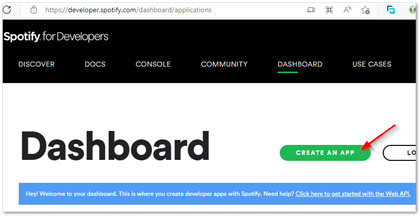
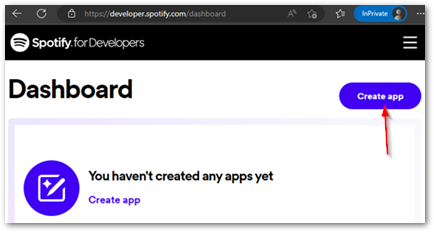
Update README.md and images

diff --git a/README.md b/README.md
@@ -7,12 +7,14 @@ This full backup can be used to be restored over your account or another one.
 
 You first need to create a Spotify Application.
 
-**Step1**: Go to the [Spotify for Developers](https://developer.spotify.com/dashboard/applications) Dashboard, log in and create an app  
+**Step1**: Go to the [Spotify for Developers](https://developer.spotify.com/dashboard) Dashboard and create an app:  
+ - App name : `spotifybackup`
+ - App description : `spotifybackup`
+ - Redirect URI : `http://localhost:8080/spotishell`
+
 ![step1.1.png](https://github.com/Domochip/spotifybackup/raw/master/img/step1.1.png) ![step1.2.png](https://github.com/Domochip/spotifybackup/raw/master/img/step1.2.png)  
-**Step2**: Edit settings of the app and add `http://localhost:8080/spotishell` to Redirect URIs  
+**Step2**: Collect Client ID and Secret  
 ![step2.1.png](https://github.com/Domochip/spotifybackup/raw/master/img/step2.1.png) ![step2.2.png](https://github.com/Domochip/spotifybackup/raw/master/img/step2.2.png)  
-**Step3**: Collect Client ID and Secret  
-![step3.png](https://github.com/Domochip/spotifybackup/raw/master/img/step3.png)  
 
 # Setup connection to Spotify
 
@@ -82,4 +84,13 @@ Check container log:
 
 # Restore a backup
 
-TODO
+To restore your Spotify Library, you need to run the image in interactive mode (using your volume):  
+`docker run -it --rm -v spotifybackup:/data --entrypoint pwsh domochip/spotifybackup`
+
+
+Then use these commands:  
+```powershell
+Import-Module Spotishell
+Restore-Library -Path '/data/SpotifyBackup-2023-05-11-01-00.json'
+Exit
+```
